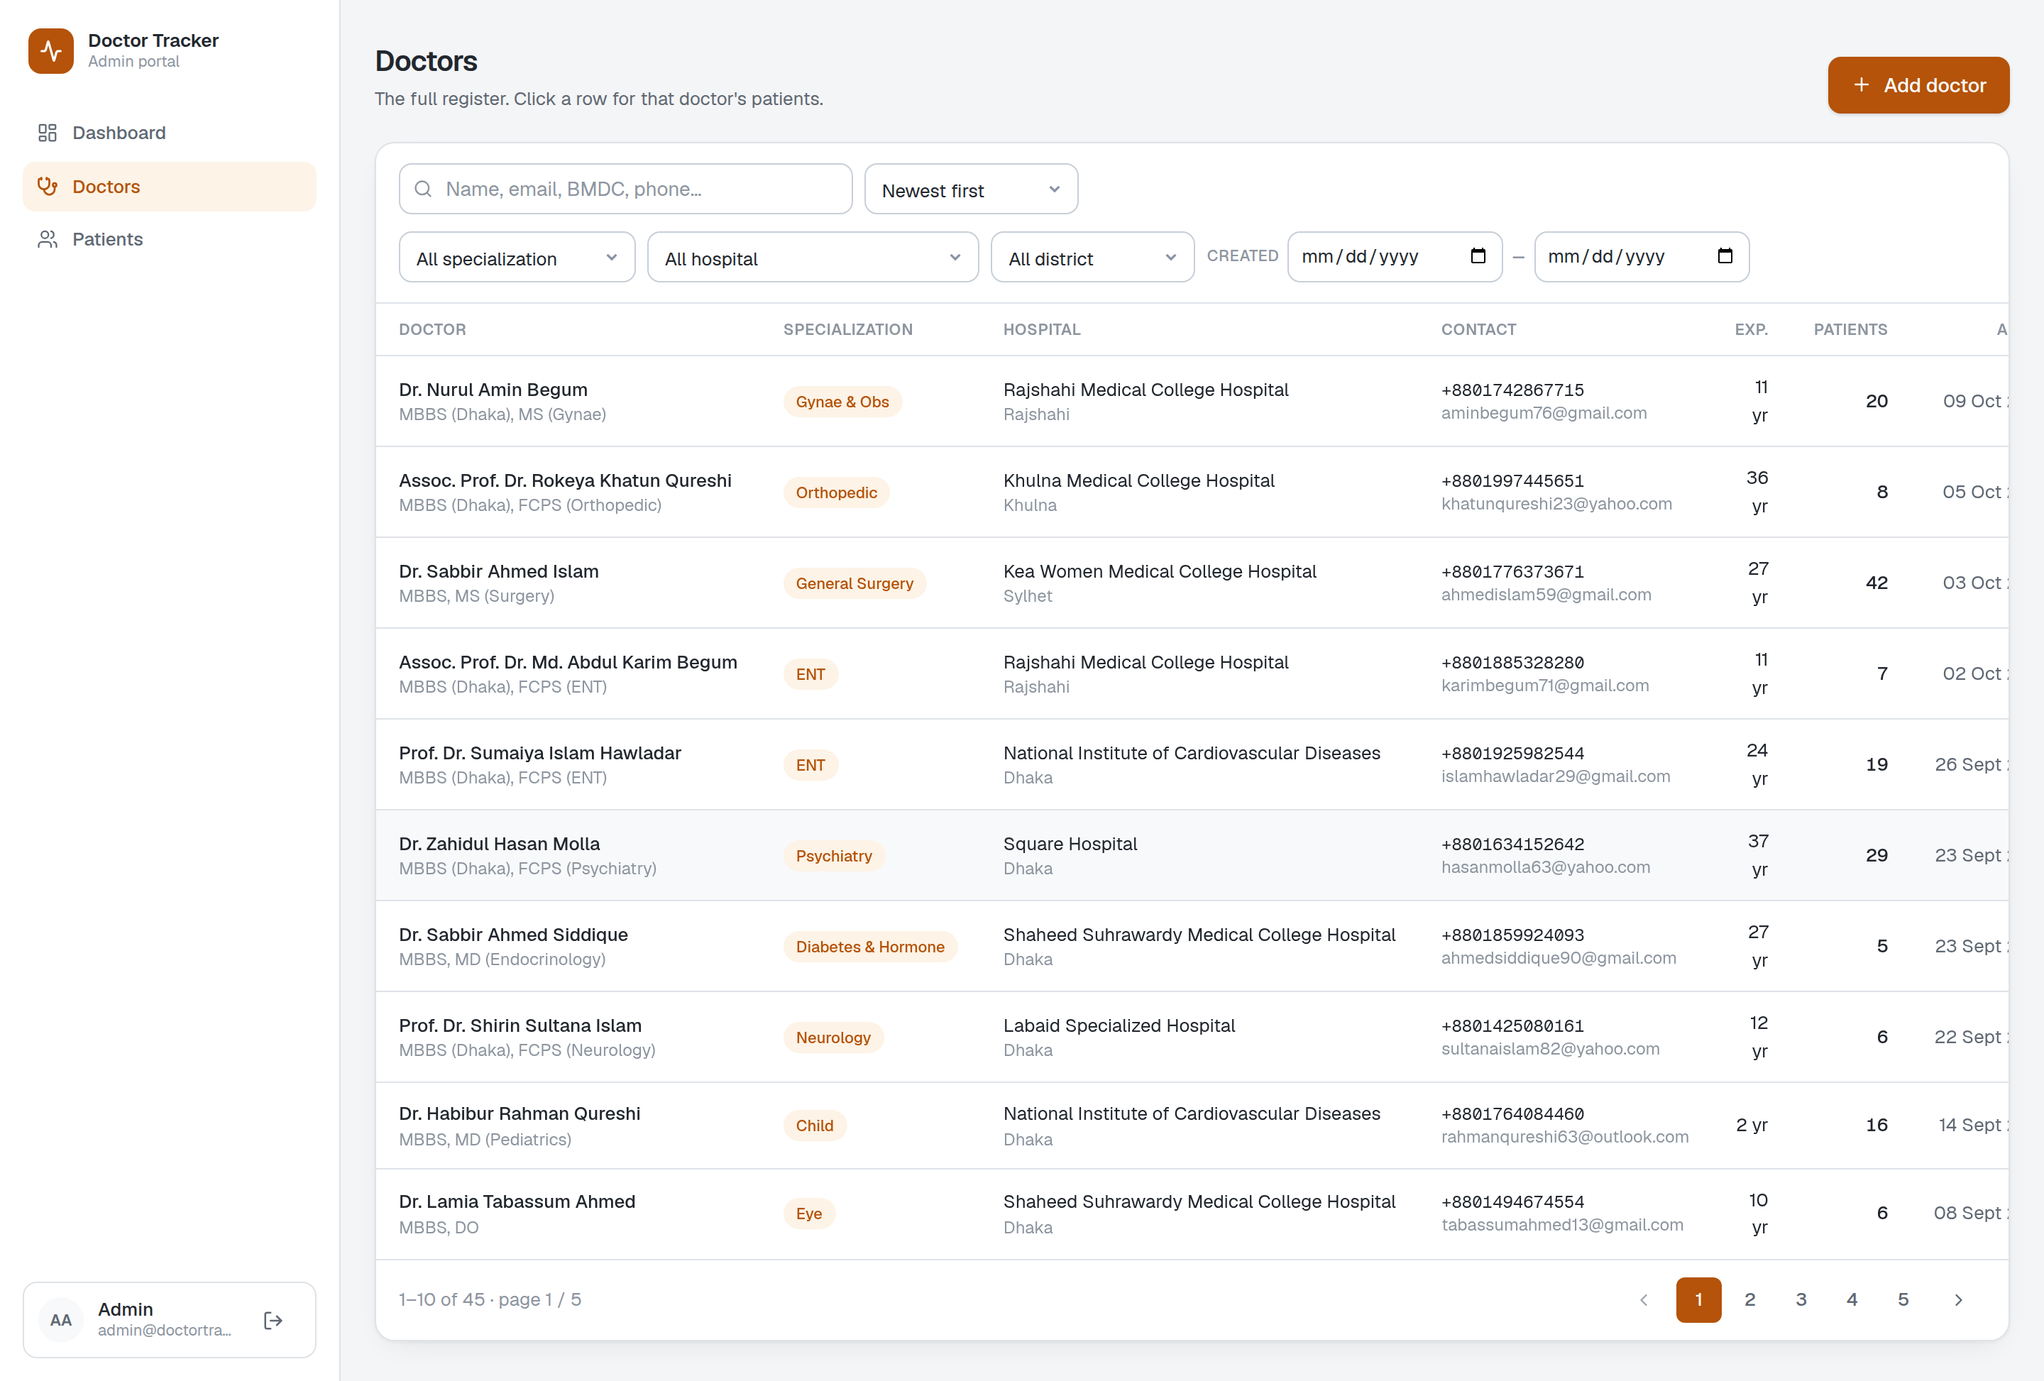
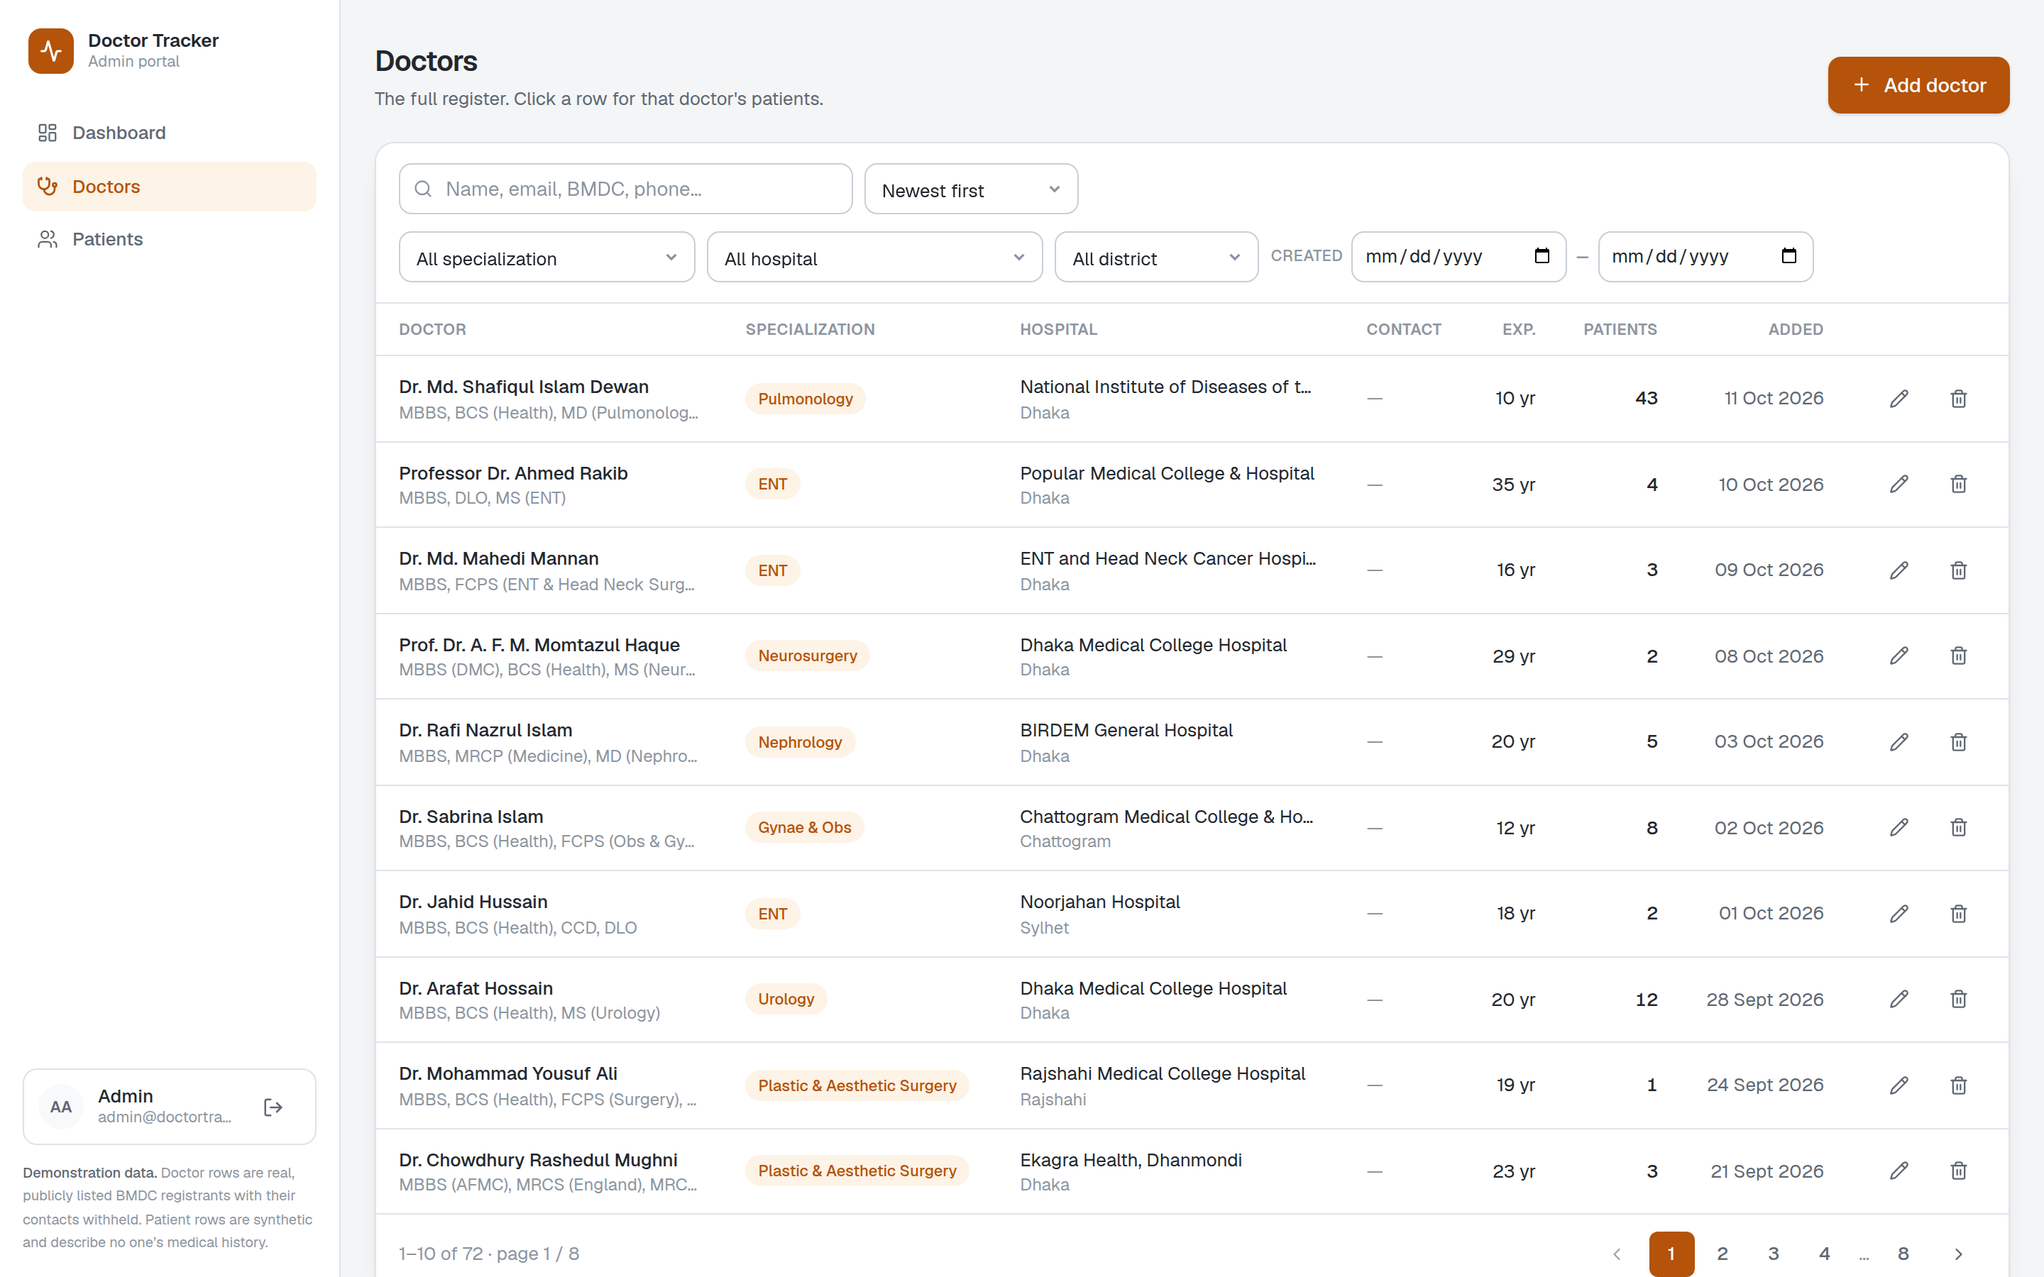
Re-shoot the documentation against the real register and correct what the README claimed
The screenshots were of invented doctors; they now show the directory data, the
withheld contacts, the demonstration-data note and the full eight-column table.

Text corrections, each one a claim that was not true of the code: the seed counts,
the index list (it now carries the two the audit found missing and the real
`explain()` output instead of a summary of what indexes usually do), the
delete-from-doctor endpoint description, and the refresh-token wording — refresh
does not rotate, so "rotating" was describing a mechanism that is not there.

diff --git a/README.md b/README.md
@@ -44,7 +44,7 @@ git clone https://github.com/Mayamoho/doctor-tracker-api.git
 cd doctor-tracker-api
 cp .env.example .env        # then fill in MONGO_URI and the two JWT secrets
 npm install
-npm run seed                # creates the admin user + 45 doctors / 600 patients
+npm run seed                # creates the admin user + 72 real doctors / 600 synthetic patients
 npm run dev                 # http://127.0.0.1:5000/api/v1
 ```
 
@@ -129,7 +129,7 @@ To put the pair on the internet instead of `localhost` — Render for the API, V
 | `GET` `POST` | `/api/v1/doctors` | search / filter / sort / paginate · create |
 | `GET` `PATCH` `DELETE` | `/api/v1/doctors/:id` | read · update · delete (cascades patients) |
 | `GET` `POST` | `/api/v1/doctors/:id/patients` | that doctor's patients · add one to them |
-| `DELETE` | `/api/v1/doctors/:id/patients/:patientId` | unassign / remove |
+| `DELETE` | `/api/v1/doctors/:id/patients/:patientId` | remove one patient from that doctor's list (deletes the record; the guard rejects it if the patient belongs to someone else) |
 | `GET` `POST` | `/api/v1/patients` | register-wide list (condition, gender, severity, visit-date range) · create |
 | `GET` `PATCH` `DELETE` | `/api/v1/patients/:id` | read · update · delete |
 | `GET` | `/api/v1/dashboard/stats` · `/filter-options` | `$facet` aggregates · dropdown vocabularies |
@@ -156,6 +156,31 @@ src/
 ### Where state lives
 
 Server state is TanStack Query's cache, keyed in `lib/api/query-keys.ts`; a mutation invalidates the keys it dirties (`use-invalidate.ts`) and `keepPreviousData` keeps the table still while the next page loads. List state — page, sort, search, every filter, both dates — is encoded in the URL by `lib/list-state.ts` and decoded back into query parameters. Component state is reserved for what genuinely cannot be shared: the draft inside a form, which modal is open, the debounce timer.
+
+---
+
+## Where the data comes from
+
+The register on the deployed portal is two different kinds of row, and the distinction is the most important thing to understand before reading any of the screenshots.
+
+**72 doctors are real.** `doctor-tracker-api/src/data/doctorDirectory.ts` holds one record per doctor — name, degrees, BMDC registration number, specialization, institution, district — copied from two public Bangladeshi doctor directories, with `source` recorded on every row. Only records where all six fields were published were carried over. Normalisations are mechanical and listed in that file's header comment: BMDC numbers spaced to `A-36364`, district spellings brought to the official forms (Chittagong → Chattogram, Bogra → Bogura, Jessore → Jashore), trailing designations stripped out of degree strings, and mixed-script rows dropped rather than transliterated by hand.
+
+**Their phone numbers and emails are not.** Both sites publish chamber numbers. Re-listing them on a demo register would route cold calls at named, licensed people, and substituting invented numbers would put false data under real names — so the seed stores the literal string `not published`, which is kept out of the search index, rendered as a muted em dash in the table, shown as "Not published" on the profile, and treated as blank by the edit form so saving a doctor never overwrites a real contact with the marker.
+
+**600 patients are synthetic, and no honest alternative exists.** A patient record is personal data by definition; there is no public Bangladeshi dataset of them. The service the brief's example links to is a commercial records platform, not open data. So the identities are generated, and the portal says so in the sidebar of every page.
+
+What *is* real is the clinical frame those identities sit in, because that part is published:
+
+| | source |
+|---|---|
+| District names and their divisions | DGHS/HRIS facility registry (34 districts, official spellings) |
+| Condition names and ICD-10 codes | WHO ICD-10, restricted per specialty to what that clinic actually sees |
+| Seasonal visit curve per condition | the published monsoon/dengue and winter/ARI burden shape, as an approximation |
+| Home district in `notes` | 66% of a doctor's patients live in that doctor's own district, the rest in the same division |
+
+`experienceYears` is the one doctor field that is estimated rather than copied. BMDC registration numbers are issued in registration order, so the seeded set is ranked by number and mapped onto a career span — internally consistent seniority, and no number claimed that a directory did not print.
+
+**The consequence worth stating plainly:** synthetic patients sit under real doctors on a public URL. Every such row carries an ICD-10 code and a home district in its notes, the sidebar labels the dataset on every screen, and no contact detail or address is attached to any named person.
 
 ---
 
@@ -195,16 +220,29 @@ Digits are rejoined rather than split, because a phone typed with spaces or a `+
 
 One consequence is documented rather than hidden: because only the last token is searched, pasting a complete email address searches `com` and returns the register. Searching the local part — `parvinanam60` — returns exactly the one doctor. Specialization and hospital are also deliberately *not* in the free-text index; they have dropdowns, and folding them in would make a search for `Dr` return everything.
 
-Filter and sort get the same treatment as search: every path the UI can take has a compound index whose field order matches the query, so the sort is free rather than an in-memory pass —
+Filter and sort get the same treatment, with one boundary stated honestly. Every *filter* the UI exposes is served by a compound index whose key order matches the query's sort, so paging is index-ordered and `keys == docs == returned`:
 
 ```
-IXSCAN  doctor list — specialization filter + default sort + page 1
-          index: specialization_1_createdAt_-1__id_-1   keys=7 docs=7
-IXSCAN  patient list — one doctor, newest visit first
-          index: doctorId_1_visitDate_-1__id_-1         keys=10 docs=10
+IXSCAN  doctor list — specialization "Cardiology" + default sort + page 1
+          index: specialization_1_createdAt_-1__id_-1   keys=9 docs=9 returned=9
+IXSCAN  patient list — gender "female" filter + newest first
+          index: gender_1_createdAt_-1__id_-1           keys=10 docs=10 returned=10
+IXSCAN  patient list — one doctor, newest visit first (the service's aggregation)
+          index: doctorId_1_visitDate_-1__id_-1         keys=10 docs=10 returned=10
+IXSCAN  doctor list — most experienced first
+          index: experienceYears_-1__id_-1              keys=10 docs=10 returned=10
 ```
 
-*(The seeded corpus is 45 doctors and 600 patients, so every `millis` above is 0. The signal is keys and documents scanned, not latency.)*
+A *free-text search combined with a sort* is the exception, and it is a property of MongoDB rather than of this schema: `searchTerms` is multikey, and a multikey index cannot provide a sort order, so the planner returns the matched documents and sorts them in memory —
+
+```
+IXSCAN  doctor search + newest-first page          + blocking sort
+          index: searchTerms_1                    keys=5 docs=4 returned=4
+```
+
+That is the right trade at this size: the sort input is the number of doctors that matched (single digits), not the size of the collection. Covering it would mean one compound index per searchable field per sort order, which is a larger and slower write path to save a sort over four documents.
+
+*(The seeded corpus is 72 doctors and 600 patients, so every `millis` above is 0. The signal is keys and documents scanned, not latency. `npm run indexes` regenerates this report, including the two deliberately-bad queries it compares against: the same term unanchored reads 593 keys instead of 5, and `name: { $regex: '^khan', $options: 'i' }` reads the whole index and returns nothing, because the stored names start with `Dr.`.)*
 
 ### 2 · TanStack Query over Redux, and the URL over both
 
@@ -263,7 +301,7 @@ Captured from a production build (`next build && next start`) at 1440×900 and 3
 |---|---|
 | ![Sign-in](docs/screenshots/desktop-login.png) | **Sign-in.** The only unauthenticated screen; a session cookie redirects away from it. |
 | ![Dashboard](docs/screenshots/desktop-dashboard.png) | **Dashboard.** Four counters, twelve-month visit area, top-eight doctors by patients, department distribution, case-mix donut. |
-| ![Doctors](docs/screenshots/desktop-doctors.png) | **Doctor register.** Ten per page over 45 rows, with search, three filters, a date range and a server-whitelisted sort in one toolbar. |
+| ![Doctors](docs/screenshots/desktop-doctors.png) | **Doctor register.** Ten per page over 72 rows, with search, three filters, a date range and a server-whitelisted sort in one toolbar. |
 | ![Filtered](docs/screenshots/desktop-doctors-search.png) | **Search applied.** The query is in the URL, so the screen is a link — and a reload or a back gesture lands on the same rows. |
 | ![Detail](docs/screenshots/desktop-doctor-detail.png) | **Doctor detail.** Facts for the record, and that doctor's own patient list — paginated, filterable, with add and remove scoped to them. |
 | ![Patients](docs/screenshots/desktop-patients.png) | **Patient register.** 600 rows across 60 pages, with the doctor column the per-doctor view omits and filters on condition, gender and severity. |
@@ -323,7 +361,7 @@ JWT_REFRESH_SECRET=<the same command, run again — must be a DIFFERENT value>
 
 Two things to know about the free tier:
 
-- **Atlas must accept Render's traffic.** Free Render services have *dynamic* egress IPs, so no single address can be allowlisted — this cluster carries a `0.0.0.0/0` entry commented `Render + Vercel` for exactly that reason. It is the pragmatic free-tier choice and it is worth naming out loud in a review rather than hiding: the database user's credentials become the only gate, and the data behind them is synthetic. See step 2.
+- **Atlas must accept Render's traffic.** Free Render services have *dynamic* egress IPs, so no single address can be allowlisted — this cluster carries a `0.0.0.0/0` entry commented `Render + Vercel` for exactly that reason. It is the pragmatic free-tier choice and it is worth naming out loud in a review rather than hiding: the database user's credentials become the only gate, and the data behind them is a demo register — real doctor identities with their contacts withheld, synthetic patients. See step 2.
 - **Free instances sleep after ~15 minutes idle** and the first request after that pays a cold start of up to a minute. `/health` exists for exactly this: it does no database work and no auth, so a keep-warm ping is cheap. Whether you ping it is a tradeoff with the free tier's spin-down behaviour, not a correctness requirement — the app works either way, it just answers slowly after a gap.
 
 If `env.ts` rejects the config the process exits with the failing field named in the Render log. Read that log before debugging anything else.
@@ -350,7 +388,7 @@ Both legs of the auth surface behave the same as in development on that boot: `4
 
 ### 2 — The database: do not re-seed it
 
-The deployed API points at the **same Atlas cluster and the same `doctor_tracker` database** that local development uses, so the register is already populated — 45 doctors, 600 patients, one admin user. There is nothing to migrate and nothing to seed.
+The deployed API points at the **same Atlas cluster and the same `doctor_tracker` database** that local development uses, so the register is already populated — 72 directory-sourced doctors, 600 synthetic patients, one admin user. There is nothing to migrate and nothing to seed.
 
 `npm run seed` **drops the database before reseeding it.** Against the deployed URI that is not a reset, it is a wipe of everything the portal is showing. Only reach for it if you have deliberately pointed the service at a different database name, and then pass the seed knobs explicitly:
 
@@ -358,7 +396,7 @@ The deployed API points at the **same Atlas cluster and the same `doctor_tracker
 MONGO_URI="mongodb+srv://…/a_different_database?…" npm run seed
 ```
 
-Network Access on this cluster is already open to `0.0.0.0/0` (comment `Render + Vercel`) because Render's free tier has dynamic egress IPs and no single address can be allowlisted. That is the pragmatic free-tier choice, not a recommendation: the database user's credentials are then the only gate, and the data in it is synthetic. A paid Render instance with a static outbound IP would allowlist as a `/32` instead.
+Network Access on this cluster is already open to `0.0.0.0/0` (comment `Render + Vercel`) because Render's free tier has dynamic egress IPs and no single address can be allowlisted. That is the pragmatic free-tier choice, not a recommendation: the database user's credentials are then the only gate, and the data in it is a demo register (see ▸ Where the data comes from). A paid Render instance with a static outbound IP would allowlist as a `/32` instead.
 
 The seeded `admin@doctortracker.dev / Admin@1234` is a published credential — it appears in this README and in `.env.example`. Change it in the live database before sharing the link:
 
@@ -420,7 +458,7 @@ Driven end to end in Chromium against the live hosts, not just curl:
 | Cookies | `dt_at` (`path=/`) and `dt_rt` (`path=/api/v1/auth`), both `host=doctor-tracker-web-one.vercel.app`, `httpOnly`, `secure`, `sameSite=Lax`, **no `Domain`** |
 | Through the rewrite | `auth/me` 200 · `doctors?search=nurul&sort=name` 200 (20 rows → 2) · `dashboard/stats` 200 (45 / 600) · unauthenticated `doctors` 401 · `auth/refresh` 200 with a fresh pair · `auth/logout` 200 clearing both |
 | Dashboard | 3 chart surfaces, area path settled at 1076px of a 1110px plot |
-| Mobile 390×844 | login → dashboard, `0px` horizontal overflow |
+| Mobile 390×844 | `0px` horizontal overflow on `/dashboard`, `/doctors` and `/patients` — measured as `documentElement.scrollWidth` against a 390px client width, not eyeballed |
 
 Two notes for whoever re-runs this. The area chart animates by interpolating path geometry, so a screenshot taken too early shows a line that stops mid-year — wait for the width to stop changing, not for it to be non-zero. And the browser console logs `401` for the deliberate unauthenticated probes plus `net::ERR_ABORTED` on superseded RSC prefetches; both are expected and neither is a failed request in the app.
 
@@ -432,5 +470,6 @@ Two notes for whoever re-runs this. The area chart animates by interpolating pat
 - **One admin role.** There is no per-doctor scoping, so `requireRole('admin')` is the whole authorization model — the spec asks for a single-clinic portal.
 - **Deleting a doctor cascades.** The confirm dialog states how many patient records go with it, because that number is real and the action is not reversible.
 - **Previously-visited routes stay in the DOM.** Next 16 keeps the subtrees of routes you have navigated away from mounted with `display: none` — in the production build as well as in development, and identical in both. They are out of the accessibility tree, so it is not a duplicate-heading bug, but any automated assertion against this app must filter by visibility or it will count rows from a table the user cannot see. A fresh document load is unaffected.
-- **The desktop table scrolls horizontally below ~1700px.** Eight columns do not fit a 1440px viewport: the wrapper is `overflow-x-auto`, so the Actions column is reachable, but at 1440 the table overflows by 159px (319px at 1280) and Edit/Delete sit past the right edge until scrolled. Phones are unaffected — they render cards instead of the table. Narrowing `HOSPITAL` and `CONTACT` is the fix; it is listed here rather than hidden.
-- **Seeded data is synthetic.** 45 doctors and 600 patients with Bangladeshi names, districts and BMDC-style registration numbers, generated by `npm run seed`.
+- **The eight-column doctors table fits from 1440px up and scrolls below that.** `DOCTOR` and `HOSPITAL` carry a `max-w` cap so their `truncate` cells do the shrinking; an uncapped auto-layout table sizes those two columns to their longest content and pushes the remaining six past the right edge. Measured: 1150px of content box holds 1150px of table at 1440, and 990px at 1280 does not hold the 1122px the table needs, so the wrapper's `overflow-x-auto` earns its keep there. Phones are a different layout, not a scrolled one.
+- **Cards wrap where the table truncates.** Below `md` the header row is hidden and each row renders as a card. A card needs `min-w-0` on its grid items *and* wrapping text: `min-width: 0` permits shrinking under a definite size but does not reduce the min-content an auto-layout table measures, so a `nowrap` degree list still set the row's floor at 450px and the card scrolled sideways inside a 390px viewport.
+- **The doctor half of the data is real and the patient half is not.** 72 doctors are copied from public directories with their contacts withheld; 600 patients are generated, because patient records are not lawfully obtainable. [Where the data comes from](#where-the-data-comes-from) is the full accounting, including the one estimated field.
